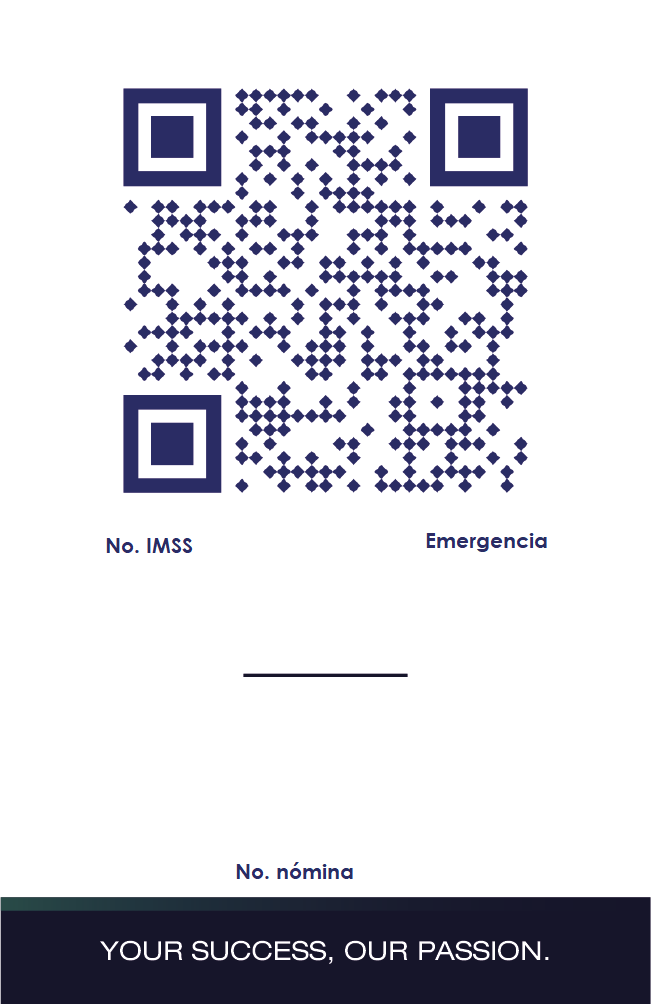
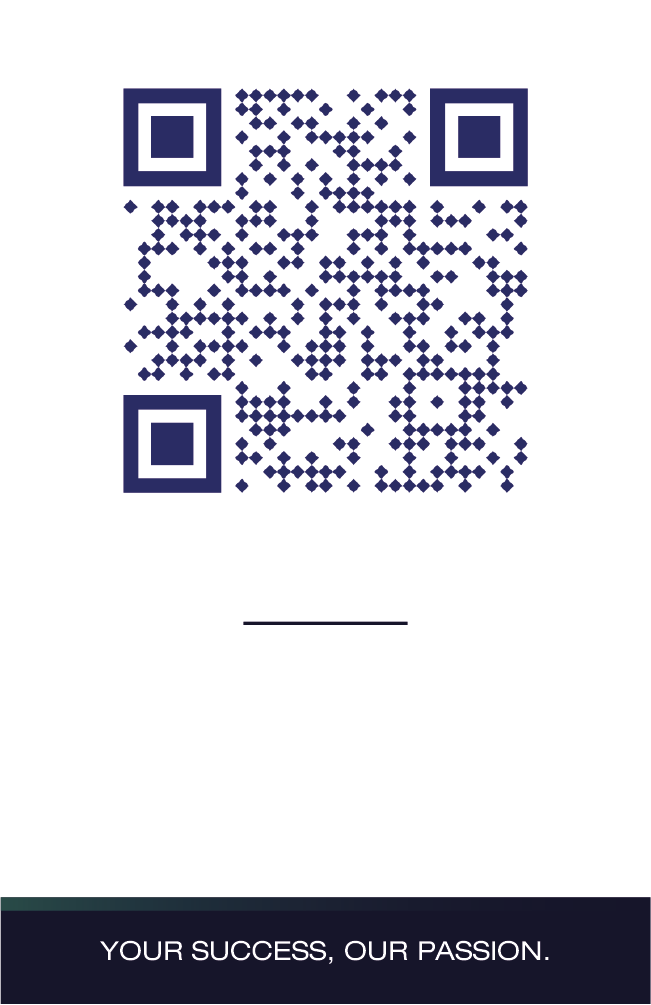
-DEV140922
- Se agrego codigo de barras al gafet de MEXQ

diff --git a/js/gafete.js b/js/gafete.js
@@ -1,5 +1,5 @@
 //IMPORTAR URL DEL BACKEND
-let backendURL = 'http://187.188.159.205:8090/web_serv/empService/controller.php';
+let backendURL = 'http://187.188.159.205:8090/web_serv/empService/controller_.php';
 //VARIABLE QUE GUARADARA LOS PARAMETROS DE LA URL
 let searchParams = new URLSearchParams(window.location.search);
 let check = searchParams.has('emp'); // SI ALGUN PARAMETRO ES IGUAL A emp LA VARIABLE SERA true
@@ -36,8 +36,8 @@ if (check) {
             $("#empNS").html(imss);
             $("#empEmergencia").html(telefonoEmergencia);
             $("#empDireccion").html(`Calle ${informacion.calle} #${informacion.numero_exterior}  <br/> Fracc. ${informacion.fraccionamiento} <br/> C.P. ${informacion.codigo_postal} ${informacion.estado}`);
-            // $("#empNomina").attr("src",url);
-            //JsBarcode("#empNomina", nomina,{lineColor: "#052467", font: "arial",displayValue: false});
+            //$("#empNomina").attr("src",url);
+            JsBarcode("#empNomina", nomina,{lineColor: "#052467", font: "arial",displayValue: false});
         } else {
             // window.close();
             let timerInterval

diff --git a/gafeteM.php b/gafeteM.php
@@ -132,8 +132,8 @@ font-family: "Century Gothic", CenturyGothic, AppleGothic, sans-serif;}
     position: absolute; 
     text-align: center;
     width: 3.6cm; 
-    top:10.70cm;
-    font-size: 8.7px;
+    top:11.55cm;
+    font-size: 8.3px;
     font-family: 'Century Gothic', CenturyGothic, AppleGothic;
     z-index: 9;
     left: 1.2cm;
@@ -150,10 +150,10 @@ font-family: "Century Gothic", CenturyGothic, AppleGothic, sans-serif;}
     -webkit-transform:rotate(180deg);
     position: absolute; 
     text-align: center;
-    left: .25cm;
+    left: 1cm;
     width: 4cm; 
-    top:10.24cm;
-    font-size: 8px;
+    top:10.28cm;
+    font-size: 9px;
     font-family: 'Century Gothic', CenturyGothic, AppleGothic;
     z-index: 9;
     color:#919496 ;" id="empNumero">
@@ -162,22 +162,22 @@ font-family: "Century Gothic", CenturyGothic, AppleGothic, sans-serif;}
 
 
 
-    <!-- <center>
+   <center>
     <img
     style="transform:rotate(180deg);
     -ms-transform:rotate(180deg); /* IE 9 */
     -webkit-transform:rotate(180deg);
     position: absolute;
     text-align: center;
-    width: 4.5cm;
+    width: 4cm;
     font-family: 'Century Gothic', CenturyGothic, AppleGothic, sans-serif;
-    height: .8cm; 
-    top:10.35cm;
+    height: 1cm; 
+    top:10.55cm;
     z-index: 10;
-    left: 0.7cm;" 
+    left:1cm;" 
     alt='MEXQ' id="empNomina"/>
     <svg id="barcode"></svg>
-    </center> -->
+    </center>
 
     </div>
     <br>
